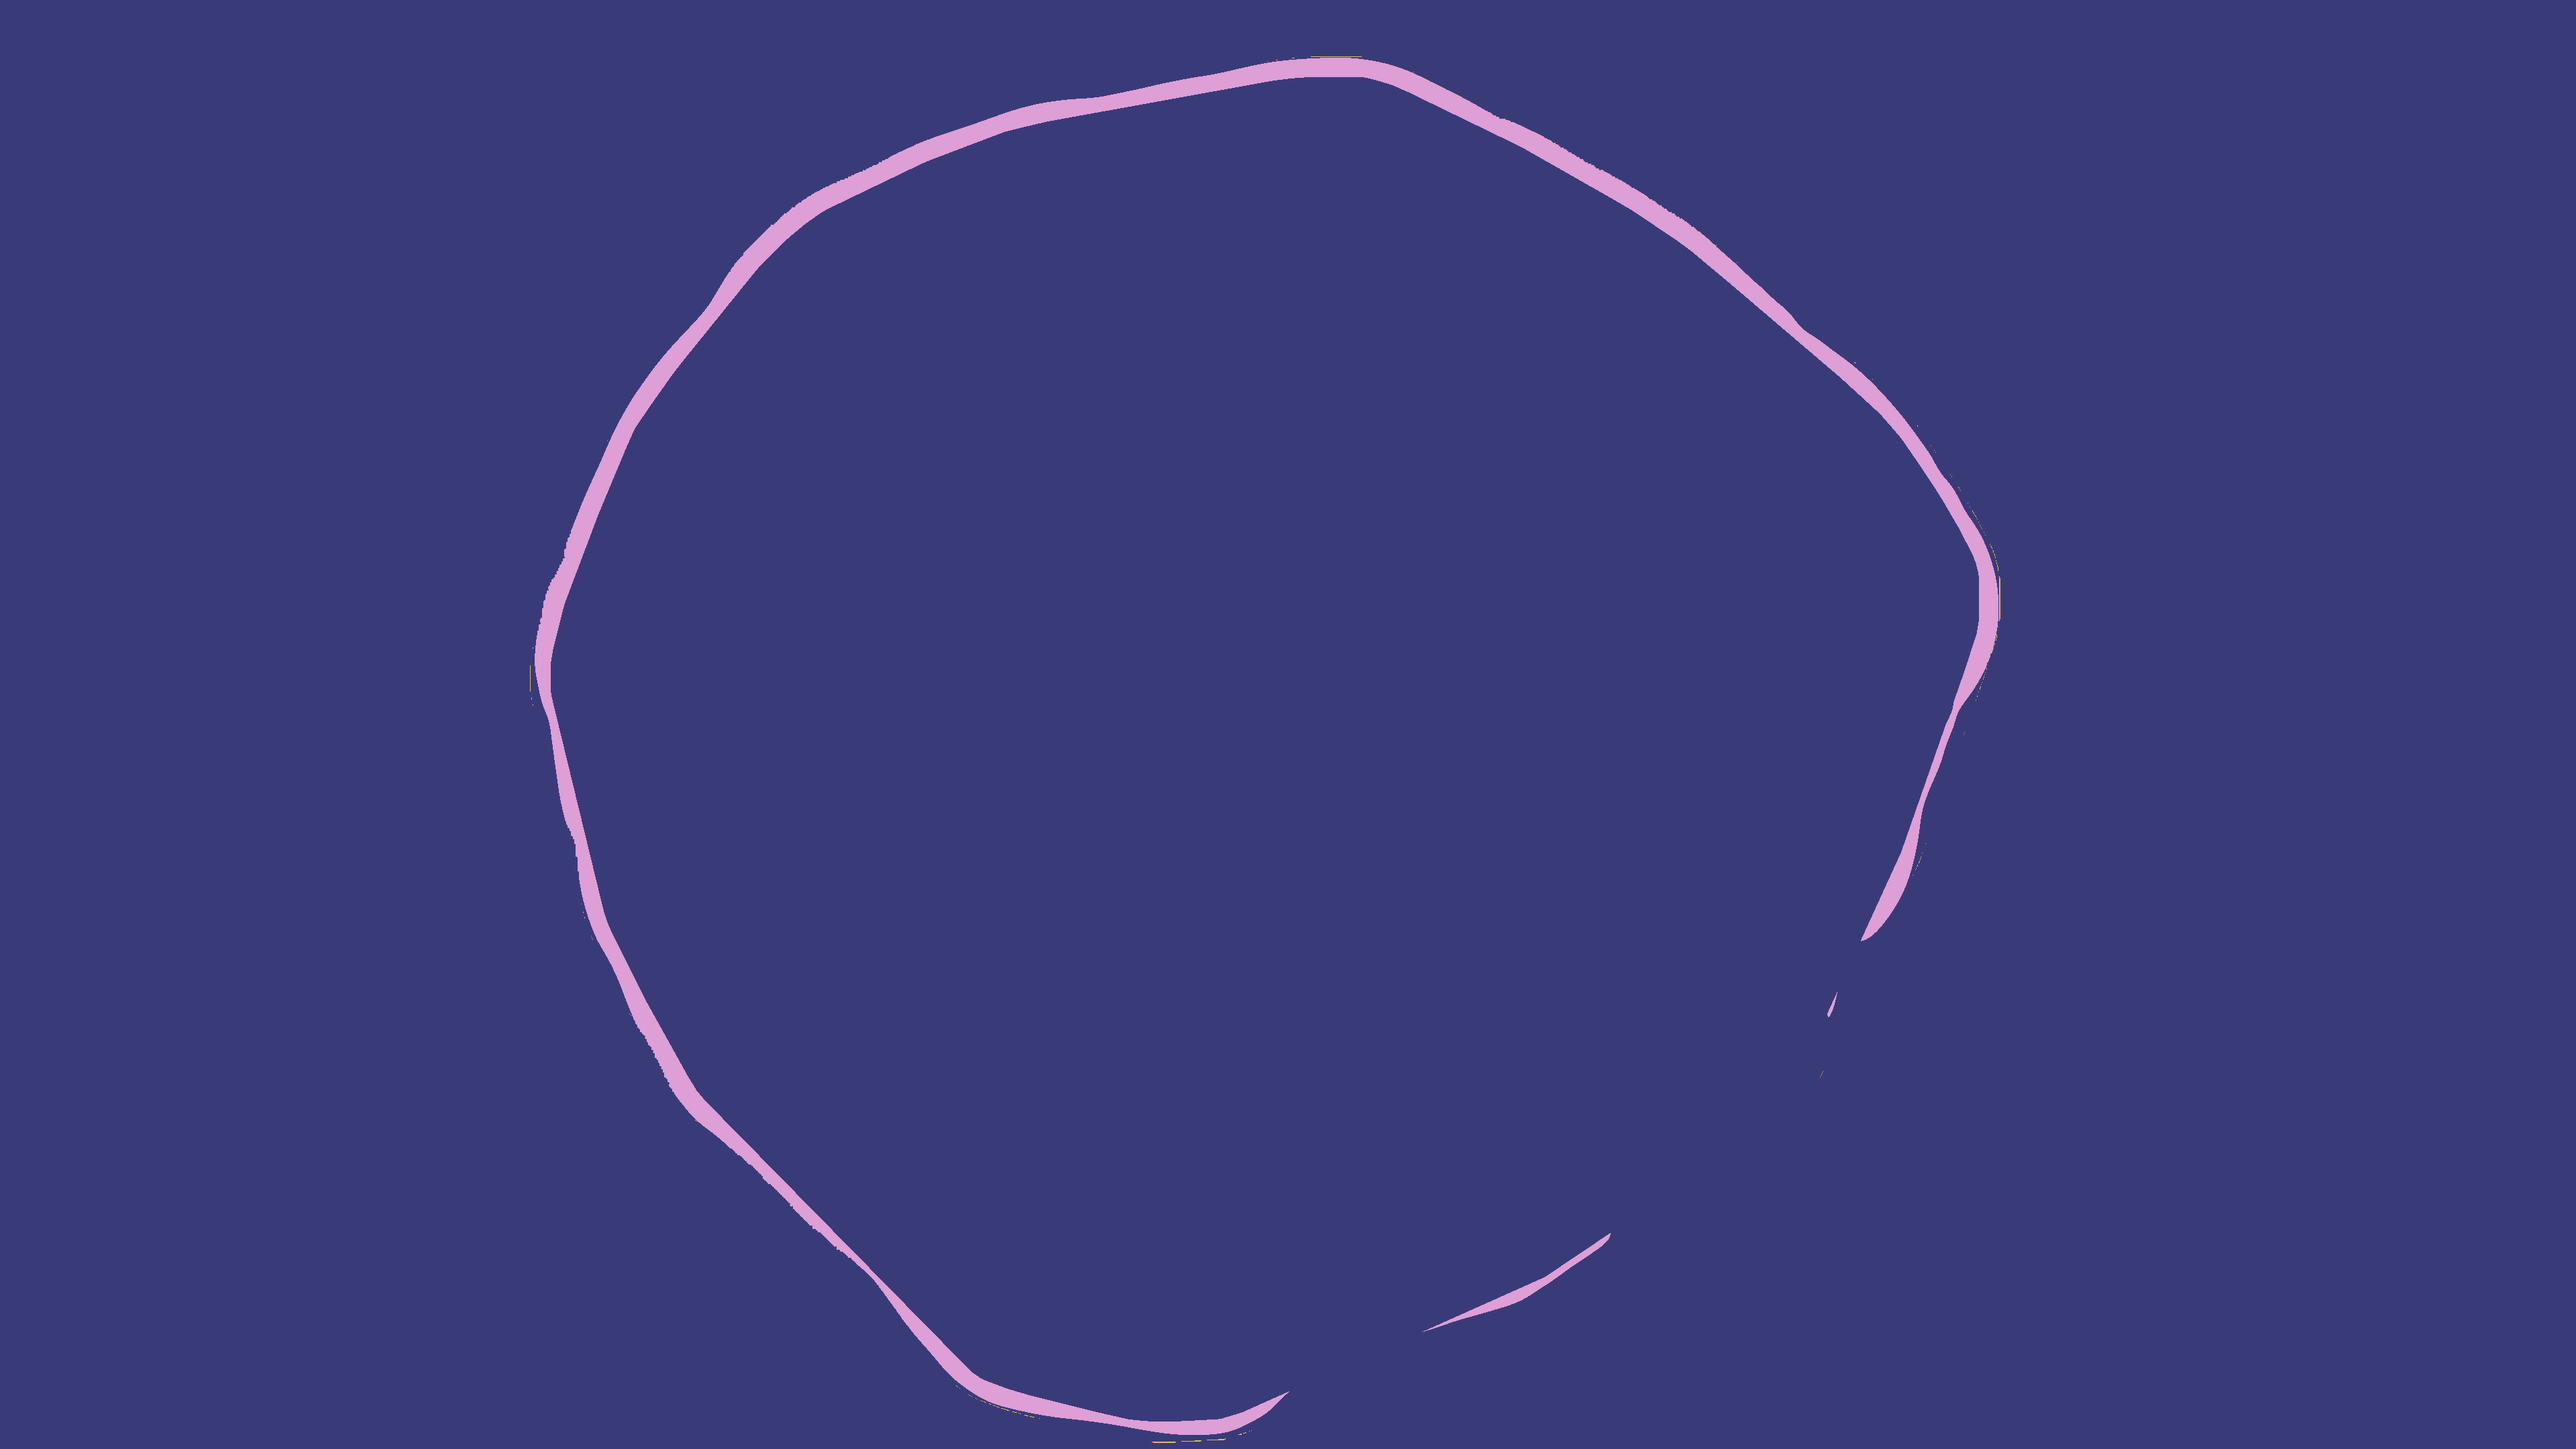
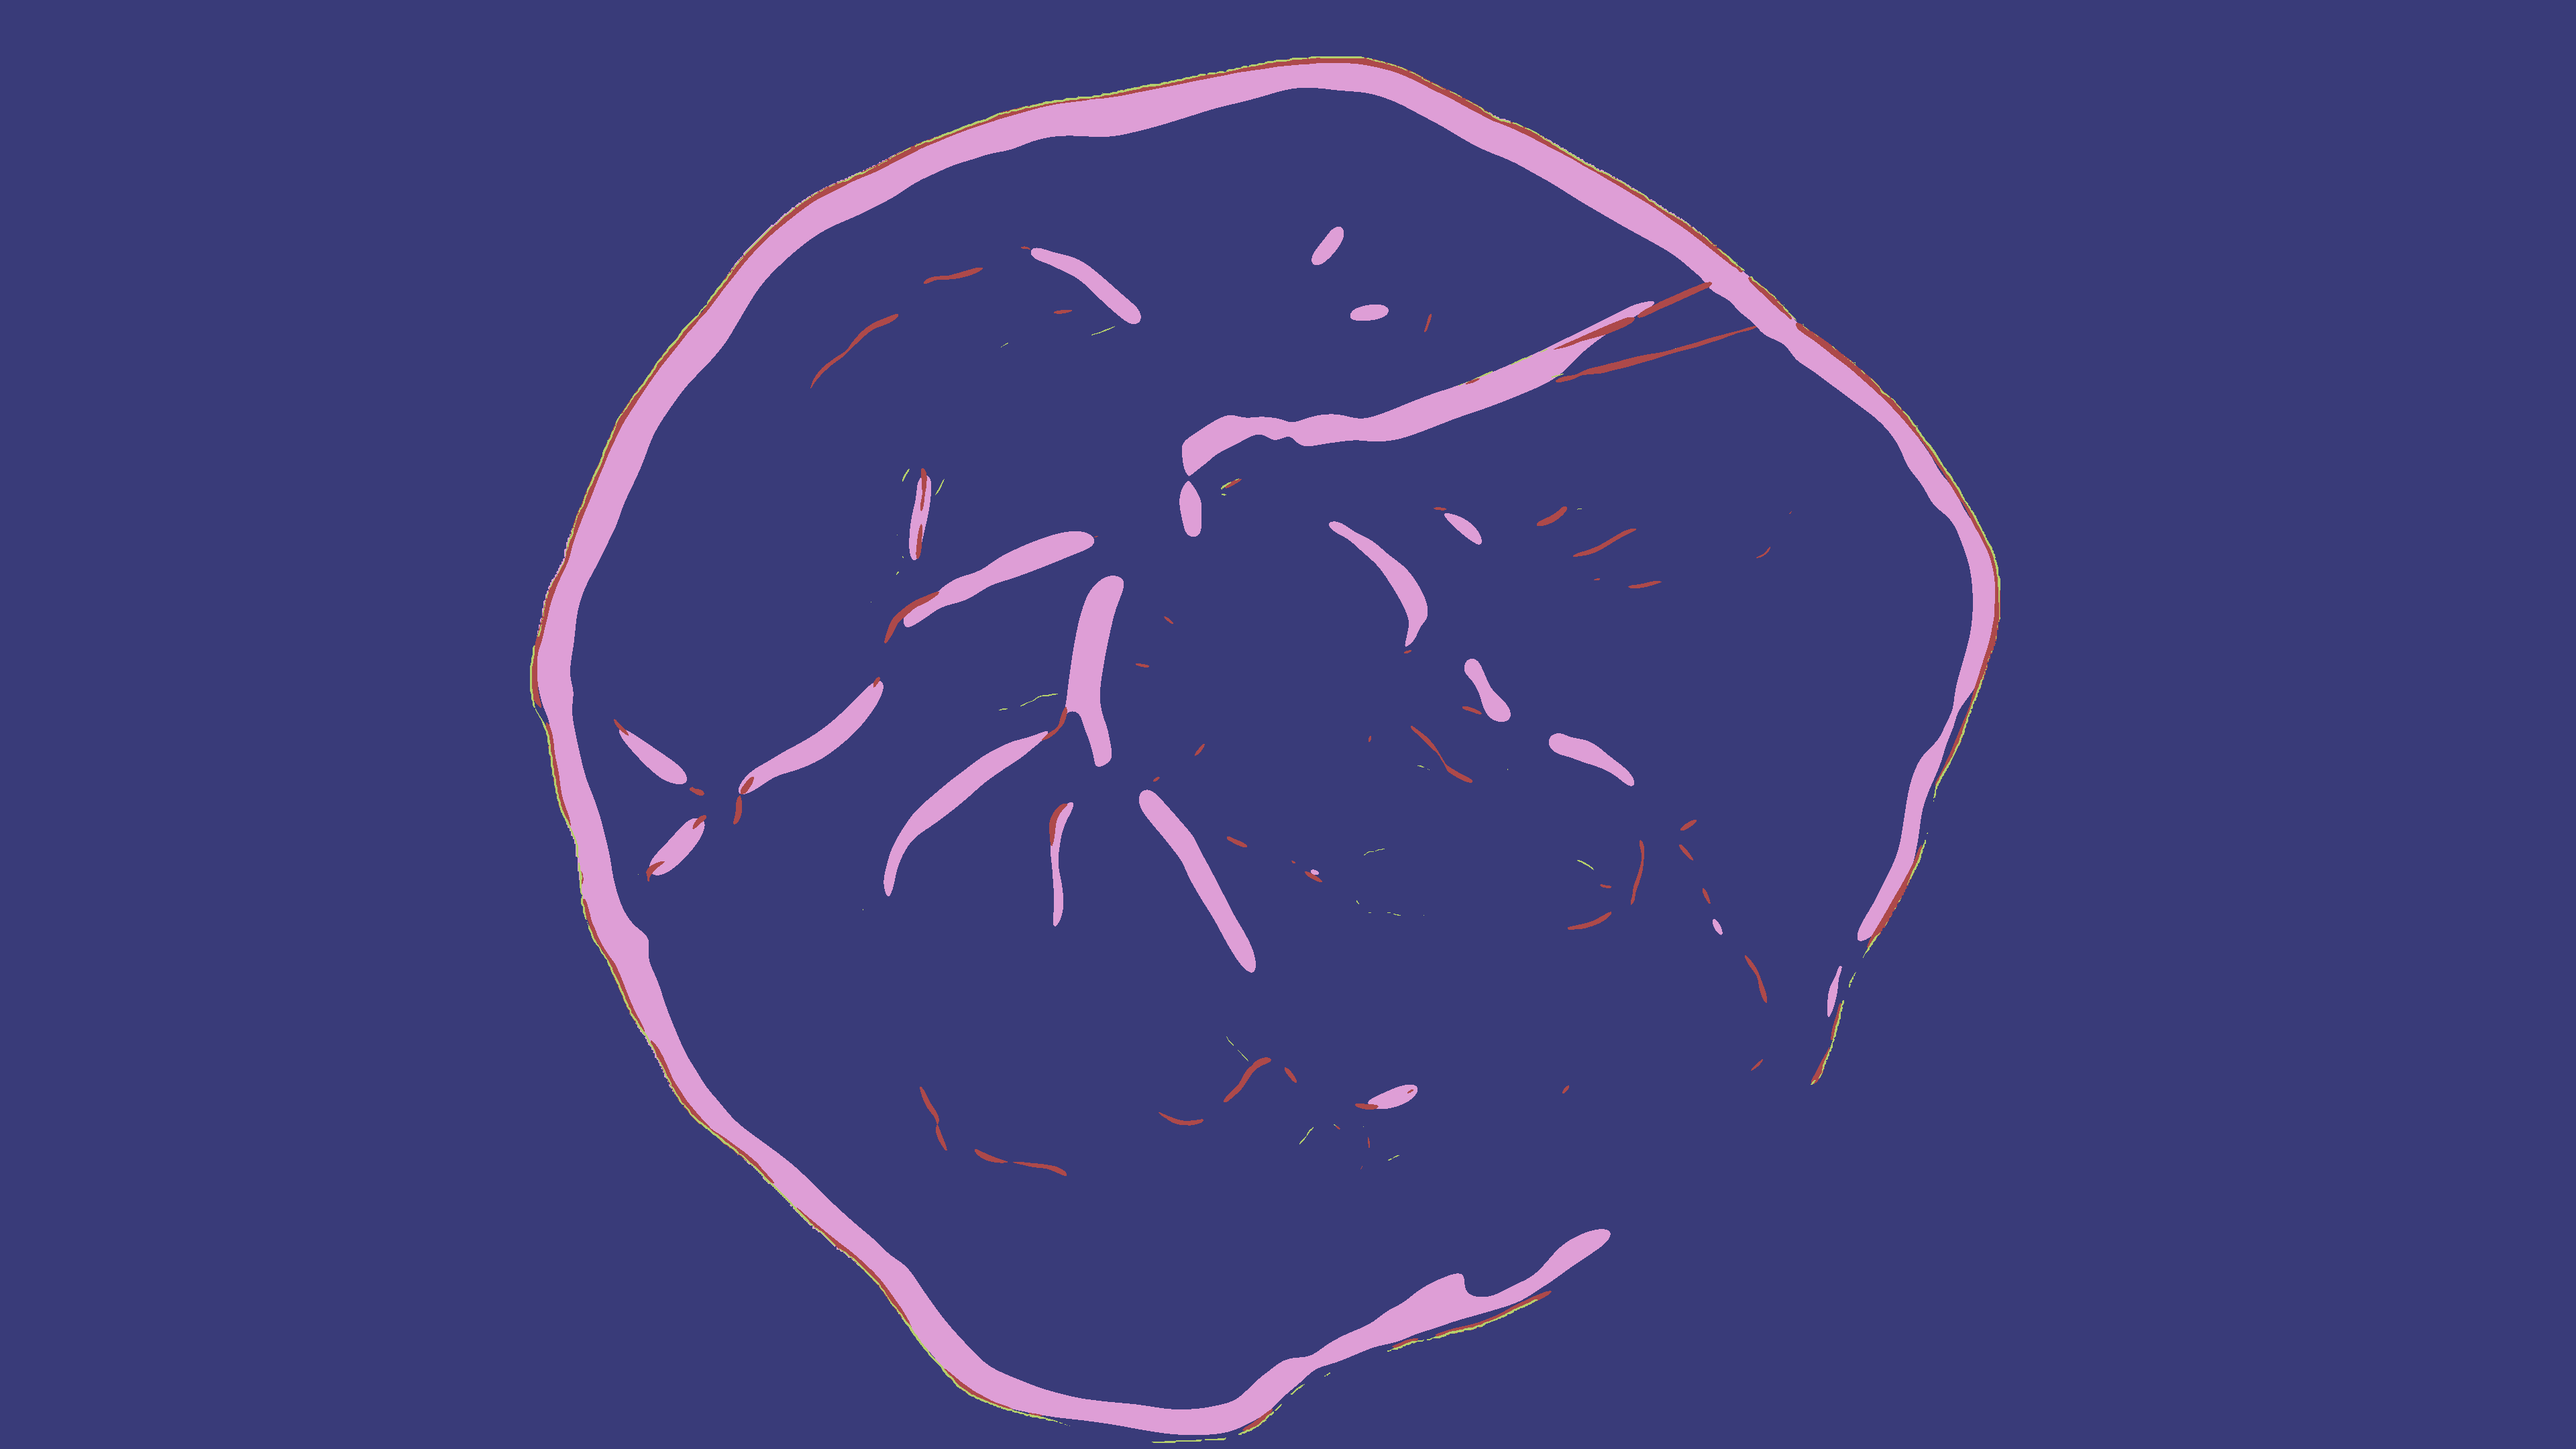
manually fixed nymh13 mask

diff --git a/pcsvn.py b/pcsvn.py
@@ -182,7 +182,7 @@ bg_mask = img.mask
 ###Set Parameter(s) for Frangi#################
 
 # set range of sigmas to use (declare these above)
-scales = np.logspace(1,5, num=2, base=2)
+scales = np.logspace(1,5, num=3, base=2)
 
 
 # set betas (anisotropy parameters)
